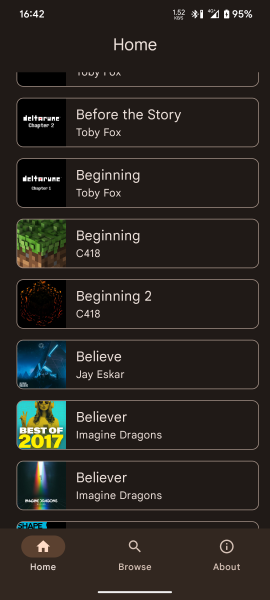
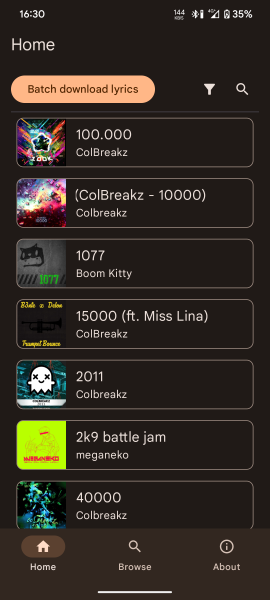
Update screenshots from v2

diff --git a/README.md b/README.md
@@ -6,7 +6,7 @@ A simple Android app to download lyrics (.lrc files) for songs in your music lib
 * Download lyrics for individual songs in your music library
 * Search for lyrics for songs not in your music library (and download them)
 
-### Screenshots (v1.0)
+### Screenshots (v2.0.0)
 ![Screenshot 1](https://github.com/Lambada10/SongSync/raw/master/screenshots/screenshot1.png)
 ![Screenshot 2](https://github.com/Lambada10/SongSync/raw/master/screenshots/screenshot2.png)
 ![Screenshot 3](https://github.com/Lambada10/SongSync/raw/master/screenshots/screenshot3.png)
